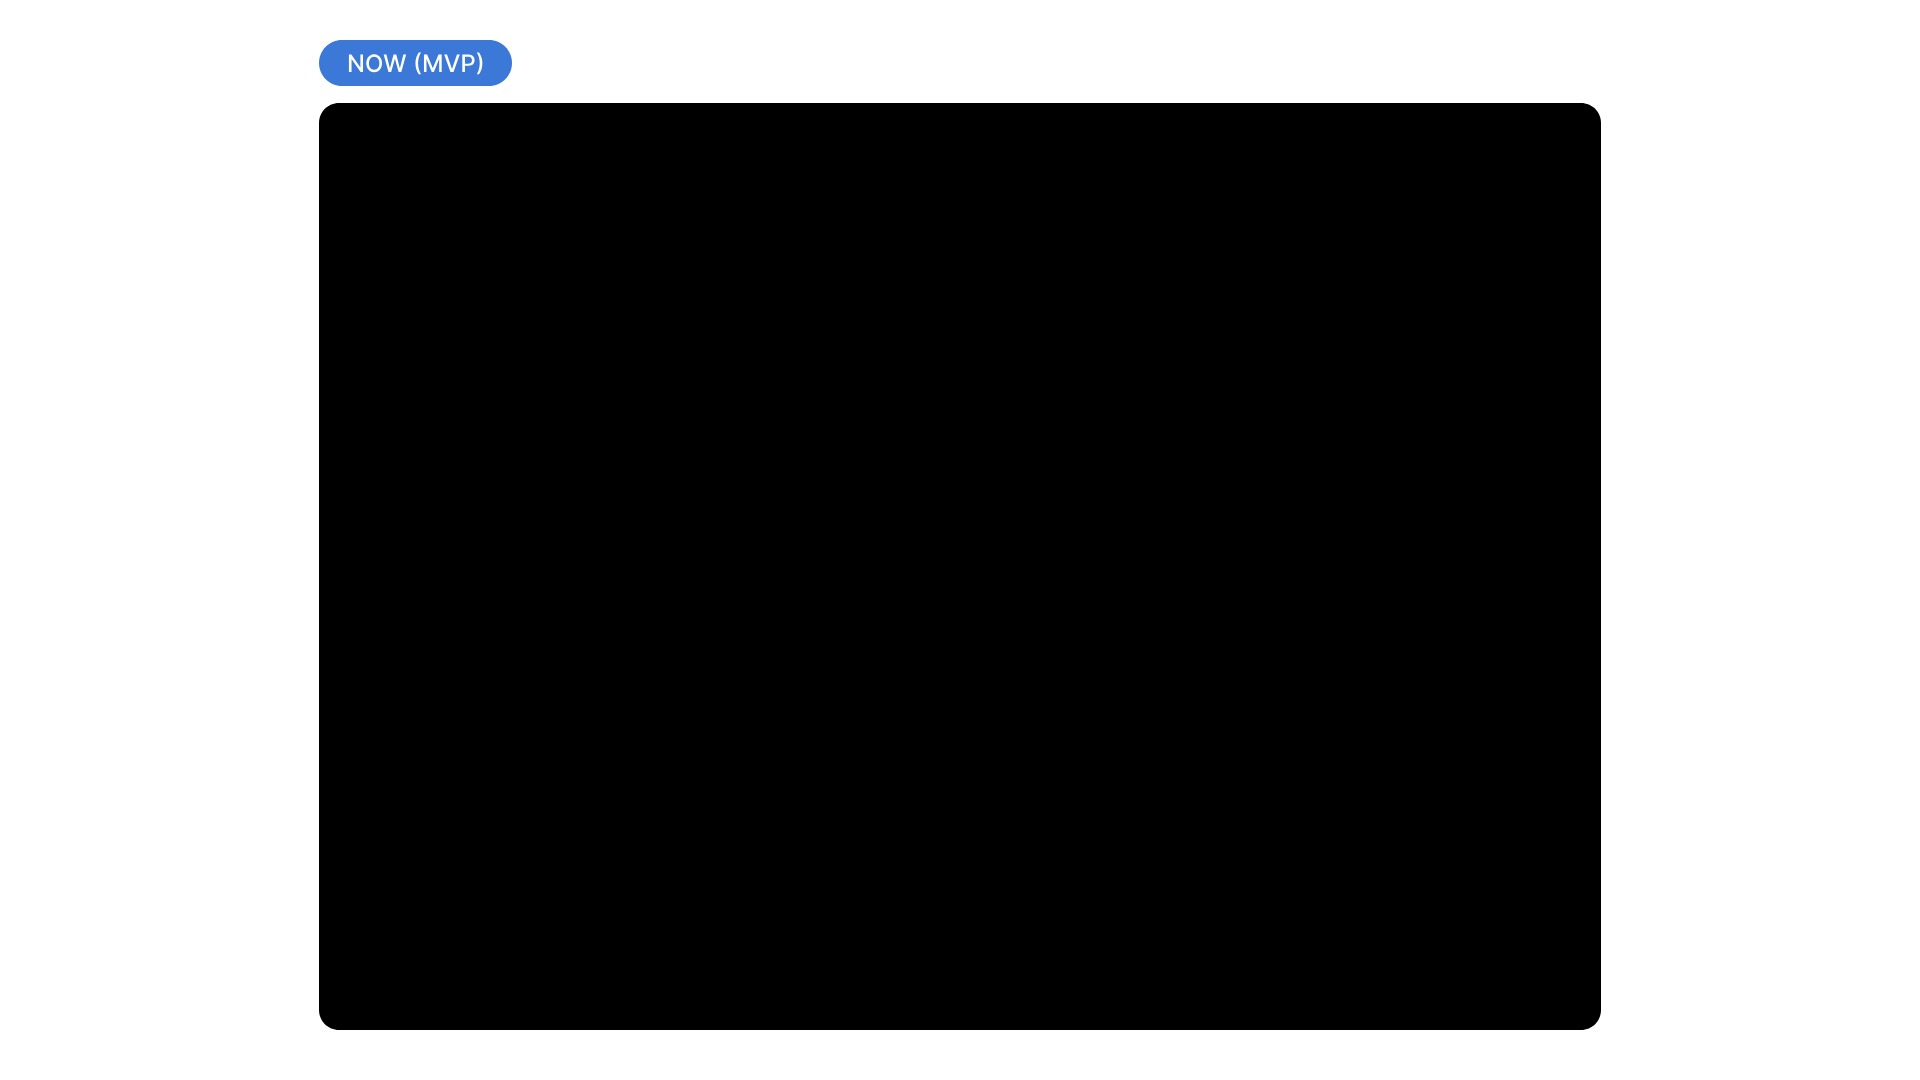
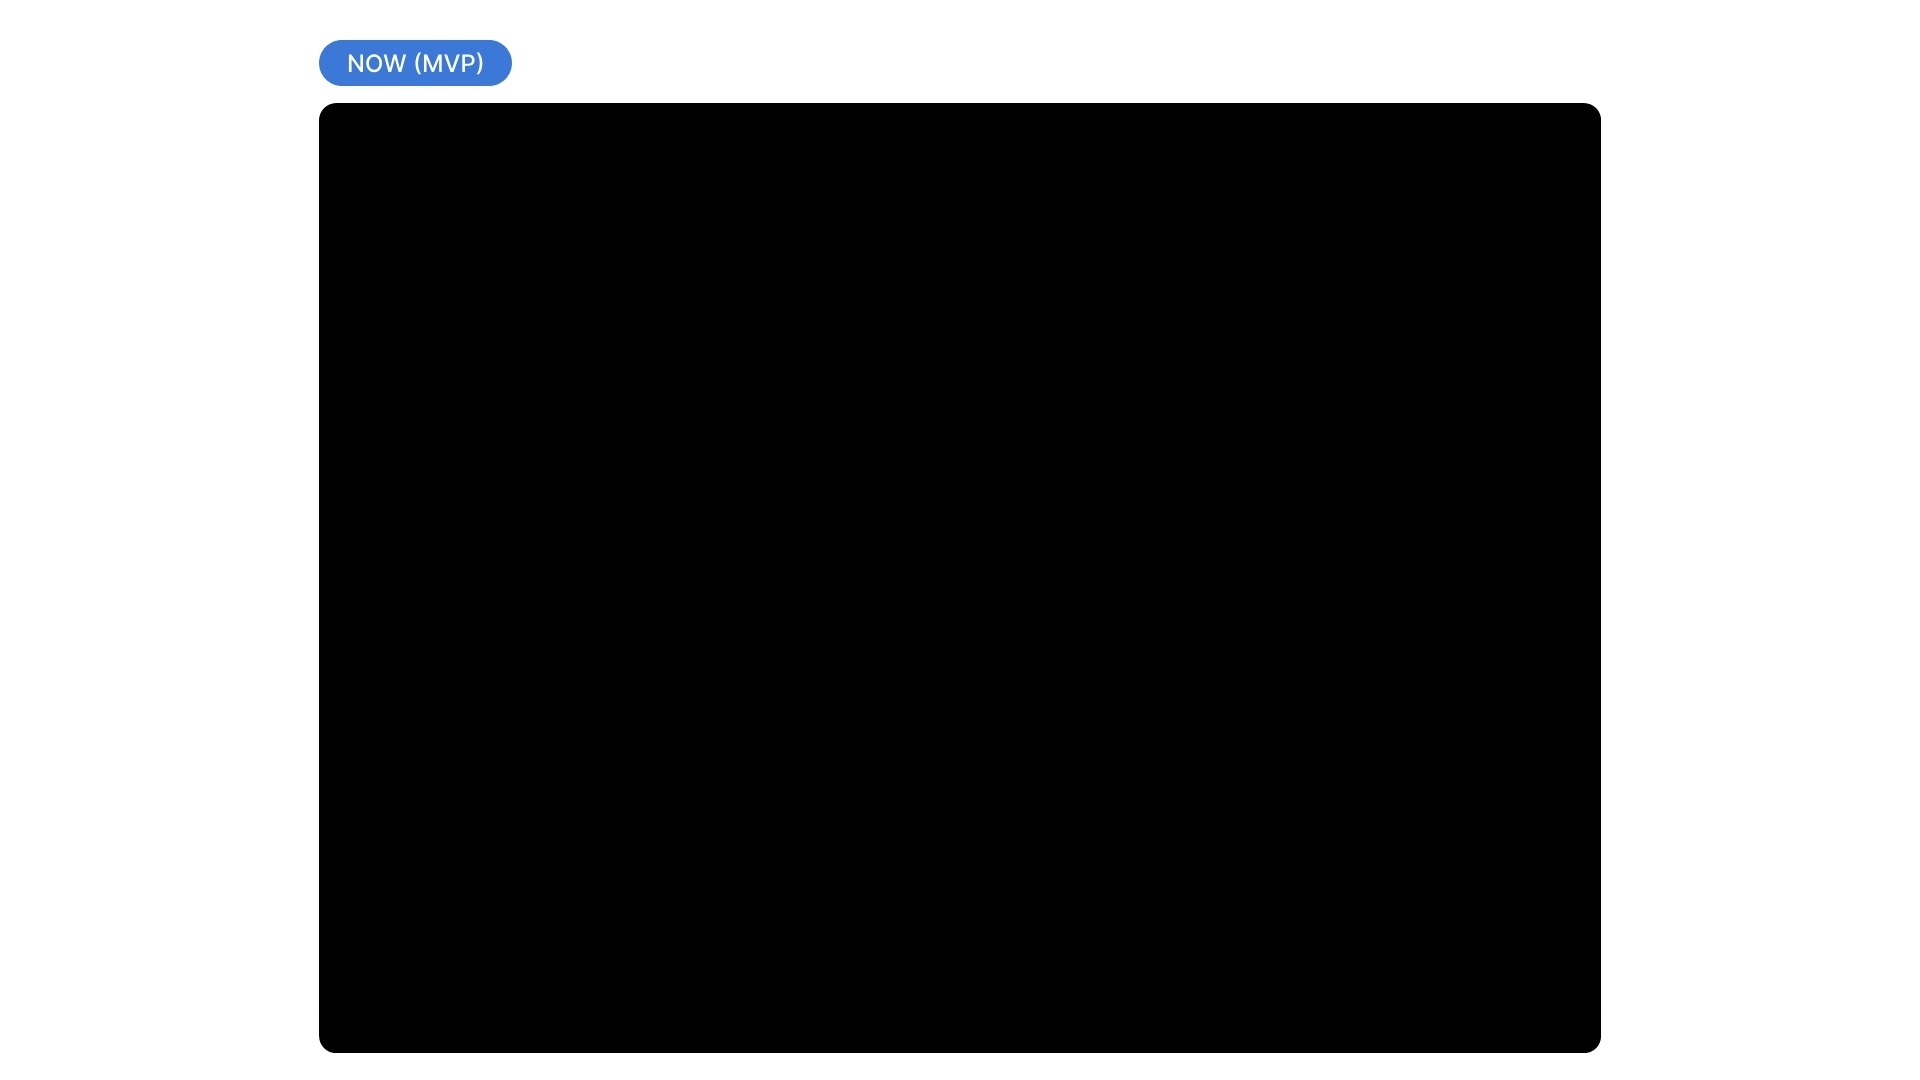
Give NOW/NEXT videos an even black matte like later-mvp.

Changed region(s): [[0.1562, 0.9472, 0.8438, 0.9778]]

diff --git a/app.js b/app.js
@@ -50,6 +50,15 @@ const FRAME_CENTER = {
   radius: 17 / 1920,
 };
 
+// Crop 1195x874 + 23px even matte. Taller than FRAME_CENTER so all four sides match.
+const FRAME_MVP = {
+  left: 319 / 1920,
+  top: 103 / 1080,
+  width: 1282 / 1920,
+  height: 950 / 1080,
+  radius: 17 / 1920,
+};
+
 const FRAME_WB_SHOT = {
   left: 810 / 1920,
   top: 276 / 1080,
@@ -60,8 +69,8 @@ const FRAME_WB_SHOT = {
 
 // Non-black content inside the source file. Fitted and centered in the frame.
 const CROP_SIDE_UI = { x: 0, y: 14, w: 1432, h: 1018 };
-// Window is 1195x874 at 131,79. Include surrounding black and center it.
-const CROP_MVP_UI = { x: 25, y: 0, w: 1407, h: 1032 };
+// Browser window inside the black canvas. Scale it to fill like later-mvp.
+const CROP_MVP_UI = { x: 131, y: 79, w: 1195, h: 874 };
 const YT_SOURCE_W = 1920;
 const YT_SOURCE_H = 1080;
 
@@ -71,8 +80,8 @@ const VIDEOS = {
   26: { src: "./media/see-relationships.mp4", vw: 1432, vh: 1032, crop: CROP_SIDE_UI, ...FRAME_SIDE },
   27: { src: "./media/range-of-users.mp4", vw: 1432, vh: 1032, crop: CROP_SIDE_UI, ...FRAME_SIDE },
   28: { src: "./media/preview-component.mp4", vw: 1432, vh: 1032, crop: CROP_SIDE_UI, ...FRAME_SIDE },
-  37: { src: "./media/now-mvp.mp4", vw: 1432, vh: 1032, crop: CROP_MVP_UI, ...FRAME_CENTER },
-  40: { src: "./media/next-mvp.mp4", vw: 1432, vh: 1032, crop: CROP_MVP_UI, ...FRAME_CENTER },
+  37: { src: "./media/now-mvp.mp4", vw: 1432, vh: 1032, crop: CROP_MVP_UI, ...FRAME_MVP },
+  40: { src: "./media/next-mvp.mp4", vw: 1432, vh: 1032, crop: CROP_MVP_UI, ...FRAME_MVP },
   43: { src: "./media/later-mvp.mp4", vw: 1440, vh: 1024, ...FRAME_CENTER },
   49: {
     youtube: "LhFhbQDodZI",
